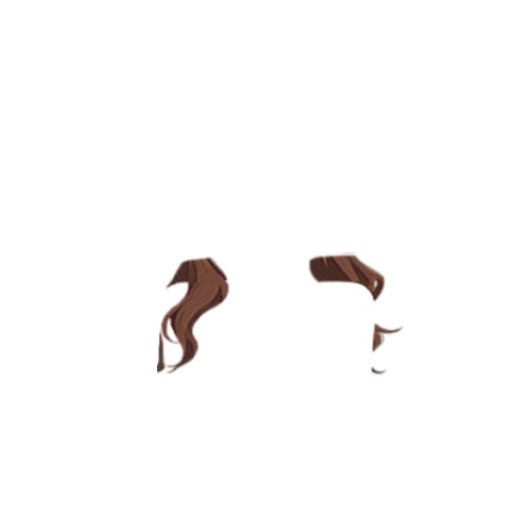
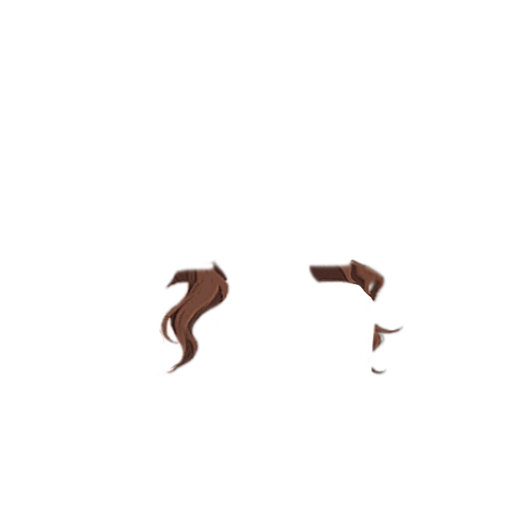
fix: unified-canvas nora assets + pure-stack sprite CSS
- Refresh all 4 nora images (nora_hair, nora_hair_front, nora_head, nora_clothe)
- Sprite: remove all offsets (bottom%, translateX, width:135%)
- All 4 layers: position:absolute top:0 left:0 w:100% h:100% object-fit:contain
- Same z-index order (1→4), no drop-shadow, no image-rendering overrides

Changed region(s): [[0.5938, 0.4688, 0.75, 0.5938], [0.3438, 0.5, 0.4375, 0.5312], [0.2812, 0.6562, 0.3438, 0.7188]]

diff --git a/public/index.html b/public/index.html
@@ -6500,15 +6500,14 @@
           'position:absolute;top:0;left:0;width:100%;height:100%;' +
           'transform:none;overflow:visible;z-index:2;pointer-events:none;';
         // 内层：纯净叠加，不含任何位移，所有图层基准完全一致
-        var _IR = 'image-rendering:-webkit-optimize-contrast;image-rendering:crisp-edges;';
-        var _BASE = 'position:absolute;top:0;left:0;width:100%;height:100%;object-fit:contain;' + _IR;
-        var _SHADOW = 'filter:drop-shadow(0 0 1px rgba(0,0,0,0.5));';
+        // 四张图画布完全相同，直接 top:0 left:0 铺满，无需任何偏移
+        var _BASE = 'position:absolute;top:0;left:0;width:100%;height:100%;object-fit:contain;';
         sprite.innerHTML =
           '<div style="position:absolute;top:0;left:0;width:100%;height:100%;pointer-events:none;">' +
-            '<img src="/characters/nora/nora_hair_front.png" style="' + _BASE + 'z-index:1;' + _SHADOW + '" />' +
+            '<img src="/characters/nora/nora_hair_front.png" style="' + _BASE + 'z-index:1;" />' +
             '<img src="/clothes/nora_clothe.png"             style="' + _BASE + 'z-index:2;" />' +
             '<img src="/characters/nora/nora_head.png"       style="' + _BASE + 'z-index:3;" />' +
-            '<img src="/characters/nora/nora_hair.png"       style="' + _BASE + 'z-index:4;' + _SHADOW + '" />' +
+            '<img src="/characters/nora/nora_hair.png"       style="' + _BASE + 'z-index:4;" />' +
           '</div>';
       } else {
         sprite.className = 'char-intro-sprite';
